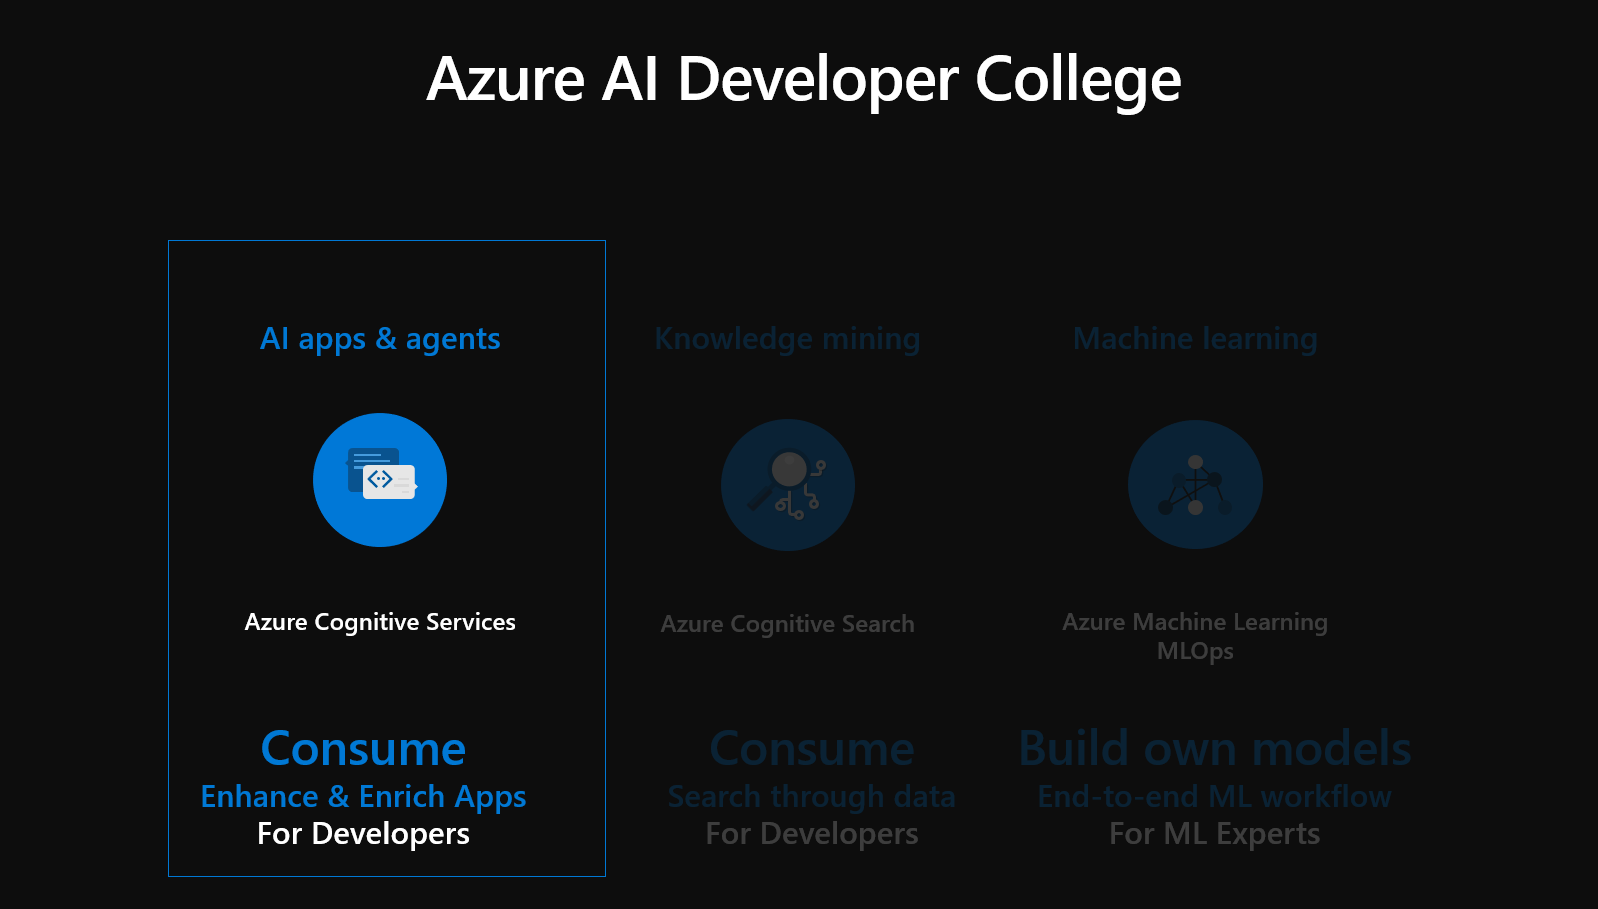
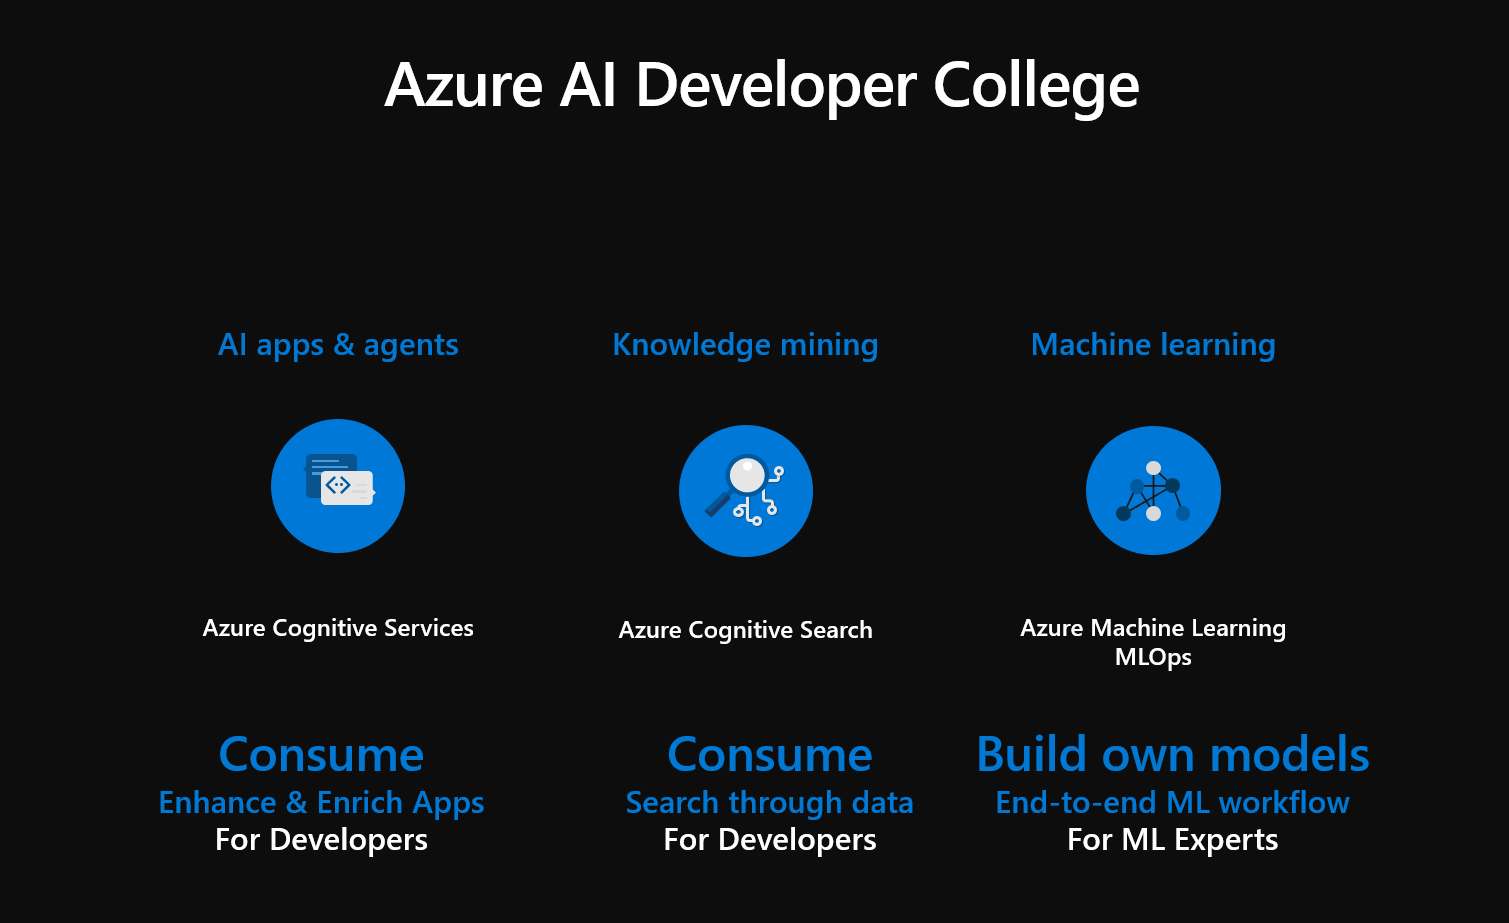
update overall structure and add overview image

diff --git a/day1/MLOps/MLOps.md b/day1/MLOps/MLOps.md
@@ -2,6 +2,8 @@
 
 In the last challenges we have trained our own model and used `Jupyter Notebook` to deploy the trained model on an Azure Container Instance and Azure Kubernetes. To operationalize the model we need automation called machine learning operations (MLOps). For example to switch from Jupyter Notebook to a plain Python file you can simply copy the code cells into a `.py` file. (see for example the train_diabetes.py). In this challenge we have prepared a `.yaml` file which automatically deploys a Azure Machine Learning Workspace, deploys a Compute Cluster, trains and register a model and deploys it to Azure Container Instance and Azure Kubernetes Service like we did before in the Jupyter Noteboook manually. To sum it up everything we have done manually will be automated now.
 
+## Focus of Today:
+
 ![Focus of today](./images/Overview.png)
 
 # MLOps on Azure

diff --git a/day2/CognitiveSearch/CognitiveSearch.md b/day2/CognitiveSearch/CognitiveSearch.md
@@ -3,6 +3,8 @@
 Today we will stay in the developer view by using existing endpoints with pre-trained machine models behind the scenes. For this we will focus on our managed services like Azure Cognitive Search and later on Azure Cognitive Services and explore some of our convenient tools to create custom machine learning models like LUIS and Custom Vision. As a developer I can use those REST APIs and enrich my applications without having deep data scientist knowledge.
 As final task we have prepared a small application which adopts a pre-trained object detection model. This shows the entire lifecycle and brings together best of both worlds.
 
+## Focus of Today:
+
 ![Focus of today](./img/Overview.png)
 
 # Azure (Cognitive) Search

diff --git a/day1/AzureMachineLearningService/README.md b/day1/AzureMachineLearningService/README.md
@@ -4,6 +4,8 @@ Today we will use Azure Machine Learning Workspace. Here we will start by traini
 
 Once we have seen the data scientist/ml expert view we will switch to the Developer or DevOps side of things. For operationalization of the model we need DevOps in this case called Machine Learning Operations (MLOps). For this challenge we have prepared a `.yaml` file which automatically deploys a Workspace, trains and registers a model and deploys it to Azure Container Instance and Azure Kubernetes Service. To sum it up, everything we have done manually will be automated for us later today.
 
+## Focus of Today:
+
 ![Focus of today](./images/Overview.png)
 
 # Azure Machine Learning Workspace

diff --git a/day2/CustomVisionApp/CustomVisionApp.md b/day2/CustomVisionApp/CustomVisionApp.md
@@ -2,6 +2,8 @@
 
 As we have looked at Azure Machine Learning Service, MLOps, Cognitive Search, Cognitive Services so far and saw how we can enrich our applications with machine learning. As a developer I can use those REST APIs and enrich my applications without having deep data scientist knowledge. As final challenge we have prepared a small application which adopts a pre-trained object detection model. This shows the entire lifecycle and brings together best of both worlds.
 
+## Focus of Today:
+
 ![Focus of Today](./images/Overview.png)
 
 # Using an Azure Custom Vision Object Detection model to detect Logos in a web browser (using TensorFlow)

diff --git a/day2/CognitiveServices/Challenge/CognitiveServices.md b/day2/CognitiveServices/Challenge/CognitiveServices.md
@@ -2,6 +2,8 @@
 
 As we have looked at Cognitive Search so far and saw how we can enrich our search service with the Azure Cognitive Services we will now go into detail of some of those services. Yesterday we have trained and registered a model and deployed it as an endpoint. Microsoft is offering such services for developers to be able to make your applications smarter by enriching those with intelligence.
 
+## Focus of Today:
+
 ![Focus of today](./images/Overview.png)
 
 # Cognitive Services
